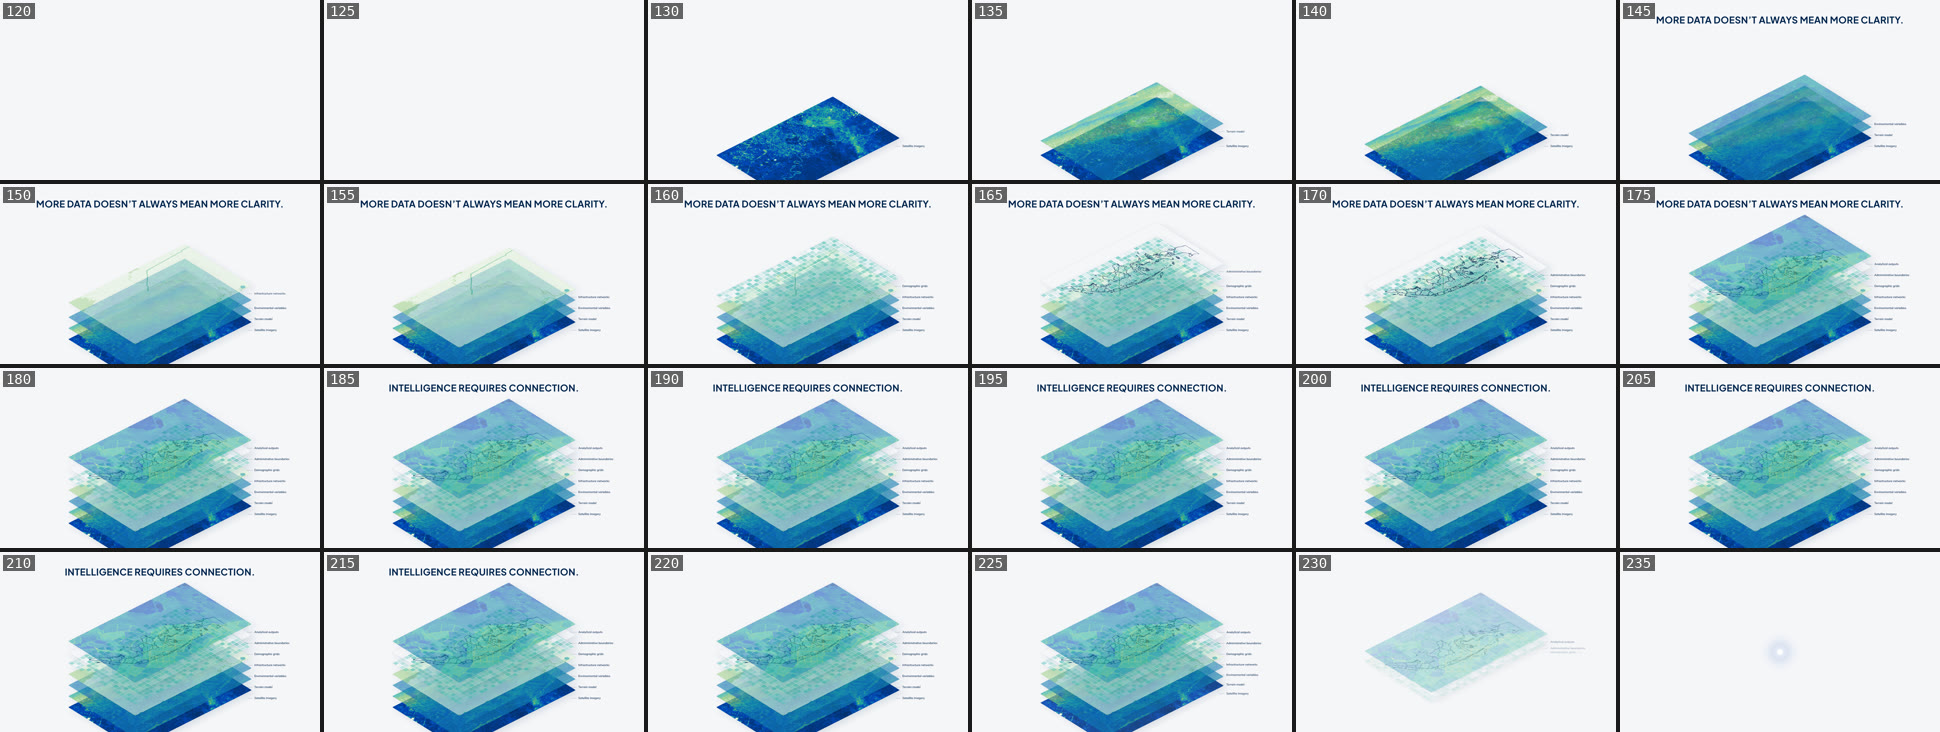
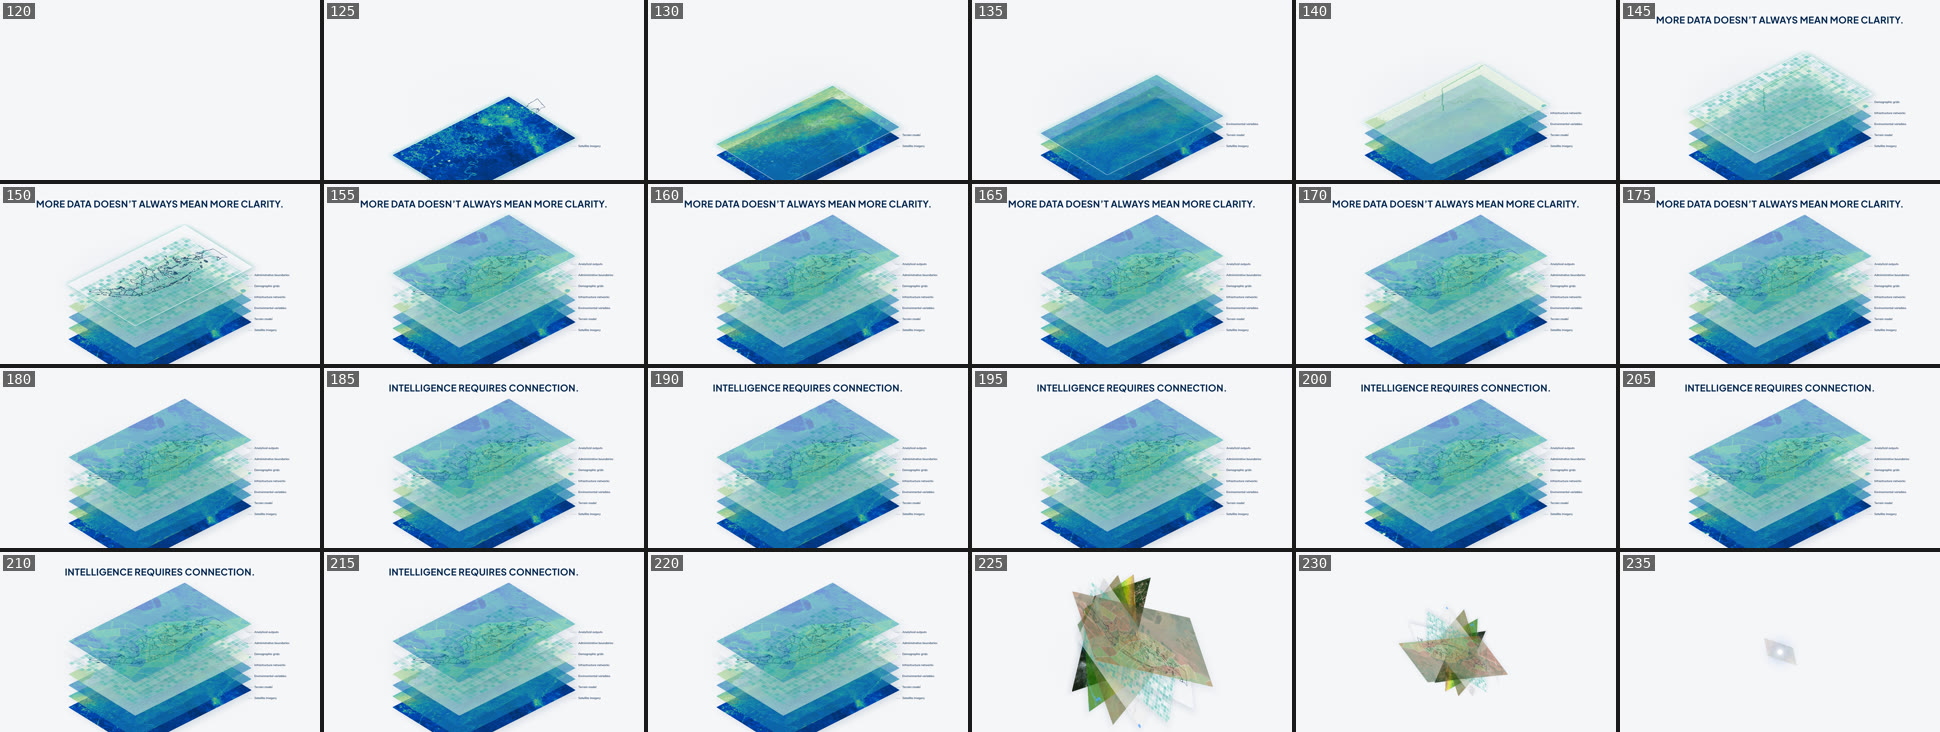
feat(galvis-film): full animation act 02
Indonesia tilts onto the stack plane; plates land on the beat with an edge
flash; their content drifts as the stack grows; moiré gratings; the plates
spiral into the node as clear copies (vortex-keyhole).

Claude-Session: https://claude.ai/code/session_0187RN5xC2Ne3Dptw6LeZ6Ei

diff --git a/projects/galvis-launch-film/compositions/02-complexity.html b/projects/galvis-launch-film/compositions/02-complexity.html
@@ -16,7 +16,18 @@
           transform: rotateX(56deg) rotateZ(-42deg); border-radius: 6px;
           box-shadow: 0 0 0 1px rgba(3, 39, 80, 0.18), 0 30px 60px rgba(3, 39, 80, 0.12);
         }
-        .act02-complexity-plate canvas { display: block; width: 100%; height: 100%; }
+        .act02-complexity-plate canvas { position: absolute; inset: 0; display: block; width: 100%; height: 100%; }
+        #act02-complexity-outline-pos { position: absolute; left: 960px; top: 880px; width: 0; height: 0; }
+        #act02-complexity-outline {
+          position: absolute; left: -470px; top: -300px; width: 940px; height: 600px; background: var(--navy);
+          -webkit-mask: url(assets/geo/idn-adm1-bold.svg) center / 100% 100% no-repeat; mask: url(assets/geo/idn-adm1-bold.svg) center / 100% 100% no-repeat;
+        }
+        .act02-complexity-moire {
+          position: absolute; left: 260px; top: 160px; width: 1400px; height: 900px;
+          background: repeating-linear-gradient(0deg, rgba(3, 39, 80, 0.55) 0 1px, transparent 1px 7px);
+          -webkit-mask-image: radial-gradient(ellipse 48% 44% at 50% 56%, #000 30%, transparent 100%);
+          mask-image: radial-gradient(ellipse 48% 44% at 50% 56%, #000 30%, transparent 100%);
+        }
         .act02-complexity-label {
           position: absolute; left: 520px; top: -14px; white-space: nowrap;
           font-family: var(--font-text); font-weight: 600; font-size: 17px; color: var(--navy);
@@ -30,7 +41,10 @@
         #act02-complexity-veil { position: absolute; inset: 0; background: var(--navy); }
       </style>
       <div id="act02-complexity-root" data-composition-id="act02-complexity" data-width="1920" data-height="1080">
+        <div id="act02-complexity-outline-pos"><div id="act02-complexity-outline"></div></div>
         <div id="act02-complexity-stack"></div>
+        <div id="act02-complexity-moire-a" class="act02-complexity-moire"></div>
+        <div id="act02-complexity-moire-b" class="act02-complexity-moire"></div>
         <div id="act02-complexity-line1" class="act02-complexity-line"></div>
         <div id="act02-complexity-line2" class="act02-complexity-line"></div>
         <div id="act02-complexity-veil"></div>
@@ -44,7 +58,16 @@
           $('line1').textContent = GV.COPY['complexity.line1'];
           $('line2').textContent = GV.COPY['complexity.line2'];
 
-          const image = (src, crop) => () => GV.ditheredCanvas(src, 940, 600, { palette: 'brand', cell: 3, crop });
+          // Image plates come as a dithered canvas plus a clear copy (resolve 1): the vortex spins and shrinks
+          // the clear copy, never the dithered one.
+          // Each image plate keeps 6 % of margin in its crop so its content can drift (redrawn, never moved).
+          const inset = ([x, y, w, h] = [0, 0, 1, 1]) => [x + w * 0.03, y + h * 0.03, w * 0.94, h * 0.94];
+          const image = (src, crop) => async () => {
+            const base = inset(crop);
+            const d = await GV.ditheredCanvas(src, 940, 600, { palette: 'brand', cell: 3, crop: base });
+            d.base = base;
+            return [d, await GV.ditheredCanvas(src, 940, 600, { palette: 'brand', cell: 3, crop: base, resolve: 1 })];
+          };
           const grid = () => {
             const c = document.createElement('canvas');
             c.width = 940; c.height = 600;
@@ -76,6 +99,7 @@
           ];
           const stack = $('stack');
           const slots = [];
+          const labels = [];
           for (const [i, [label, make, opacity]] of plates.entries()) {
             const slot = document.createElement('div');
             slot.className = `${id}-slot`;
@@ -84,23 +108,72 @@
             const plate = document.createElement('div');
             plate.className = `${id}-plate`;
             plate.style.opacity = opacity;
-            plate.append(await make());
+            const made = await make();
+            const [dithered, clear] = Array.isArray(made) ? made : [made, null];
+            plate.append(dithered);
+            if (clear) { clear.style.opacity = '0'; plate.append(clear); }
             const tag = document.createElement('div');
             tag.className = `${id}-label`;
             tag.textContent = label;
+            labels.push(tag);
             slot.append(plate, tag);
             stack.append(slot);
-            slots.push({ slot, top });
+            slots.push({ slot, top, plate, dithered: clear ? dithered : null, clear, drift: [Math.cos(i * 2.4), Math.sin(i * 2.4)] });
           }
 
-          // Plates drop in one by one from bar 7, beat 1 (slots move; the dithered canvases are never scaled).
-          slots.forEach(({ slot }, i) => {
-            gsap.set(slot, { y: -180, opacity: 0 });
-            tl.to(slot, { y: 0, opacity: 1, duration: 0.6, ease: 'power3.out' }, A(7, 1) + i * 0.75);
+          // Bar 7: Indonesia appears seen from above, then tilts onto the plane the plates will stack on.
+          gsap.set($('outline'), { opacity: 0, y: -360, rotationX: 0, rotationZ: 0 });
+          tl.to($('outline'), { opacity: 0.85, duration: 0.2 }, A(7));
+          tl.to($('outline'), { y: 0, rotationX: 56, rotationZ: -42, duration: 0.3, ease: 'power2.inOut' }, A(7) + 0.2);
+          tl.to($('outline'), { opacity: 0, duration: 0.2 }, A(7, 1) + 0.15);
+
+          // Every plate's state is a function of time: it drops in on its beat (expo out, so it lands on the
+          // frame), and from bar 12 spirals into the node (vortex-keyhole) as its clear copy.
+          const LAND = slots.map((_, i) => A(7, 1) + i * 0.5);
+          const VORTEX = A(12), NODE = [960, 600];
+          const expoOut = (k) => (k >= 1 ? 1 : 1 - Math.pow(2, -10 * k));
+          // A plate falls in over the 0.25 s before its beat (accelerating) and lands on it with an edge flash.
+          const placeSlots = (t) => slots.forEach(({ slot, top, plate, dithered, clear, drift }, i) => {
+            const fall = Math.min(1, Math.max(0, (t - (LAND[i] - 0.25)) / 0.25));
+            let state = { x: 0, y: -160 * (1 - fall * fall), scale: 1, rotation: 0, opacity: Math.min(1, fall * 1.6) };
+            const flash = t < LAND[i] ? 0 : Math.exp(-(t - LAND[i]) * 9);
+            plate.style.boxShadow = `0 0 0 ${(1 + 3 * flash).toFixed(2)}px rgba(255,255,255,${(0.18 + 0.82 * flash).toFixed(3)}), 0 0 ${(40 * flash).toFixed(1)}px rgba(31,175,161,${(0.7 * flash).toFixed(3)}), 0 30px 60px rgba(3, 39, 80, 0.12)`;
+            // The stack gets messier: each plate's content drifts its own way, faster as more plates land.
+            if (dithered && t >= LAND[i] && t < VORTEX) {
+              const landed = LAND.filter((l) => t >= l).length;
+              const amp = 0.012 + 0.003 * landed;
+              const u = Math.sin((t - LAND[i]) * (0.6 + 0.12 * landed));
+              const [bx, by, bw, bh] = dithered.base;
+              dithered.layer.set({ crop: [bx + drift[0] * amp * u * bw, by + drift[1] * amp * u * bh, bw, bh] });
+              dithered.layer.draw();
+            }
+            const k = Math.min(1, Math.max(0, (t - VORTEX - i * 0.05) / 1.3));
+            if (k > 0) {
+              const v = GV.vortexPoint([960, top], NODE, Math.pow(k, 1.3));
+              state = { x: v.x - 960, y: v.y - top, scale: v.scale, rotation: v.rotation, opacity: 1 - Math.max(0, (k - 0.75) / 0.25) };
+            }
+            const swap = clear ? Math.min(1, Math.max(0, (t - VORTEX) / 0.1)) : 0;
+            if (clear) { clear.style.opacity = String(swap); dithered.style.opacity = String(1 - swap); }
+            gsap.set(slot, state);
           });
 
+          // Moiré: two line gratings over the stack, turning against each other, denser as plates land.
+          const moire = (t) => {
+            const landed = LAND.filter((l) => t >= l).length;
+            const o = Math.min(0.32, landed * 0.045) * (t < VORTEX ? 1 : Math.max(0, 1 - (t - VORTEX) / 0.6));
+            gsap.set($('moire-a'), { rotation: 4 + t * 0.9, opacity: o });
+            gsap.set($('moire-b'), { rotation: -3 - t * 0.6, opacity: o });
+          };
+          // Labels leave as the vortex starts; only the plates are pulled in.
+          tl.to(labels, { opacity: 0, duration: 0.2 }, VORTEX);
+
+          const clock = { t: 0 };
+          const apply = (t) => { placeSlots(t); moire(t); };
+          tl.to(clock, { t: 12, duration: 12, ease: 'none', onUpdate: () => apply(clock.t) }, 0);
+          apply(0);
+
           const blurIn = { opacity: 0, y: 20, filter: 'blur(10px)' };
-          const sharp = { opacity: 1, y: 0, filter: 'blur(0px)', duration: 0.6, ease: 'power3.out' };
+          const sharp = { opacity: 1, y: 0, filter: 'blur(0px)', duration: 0.6, ease: 'expo.out' };
           const out = { opacity: 0, filter: 'blur(8px)', duration: 0.4 };
           gsap.set([$('line1'), $('line2')], blurIn);
           tl.to($('line1'), sharp, A(8));
@@ -108,11 +181,8 @@
           tl.to($('line2'), sharp, A(10));
           tl.to($('line2'), out, A(11, 3));
 
-          // Bar 12: everything is pulled into one node; on the silent last beat the frame dims around it
+          // Bar 12: everything has been pulled into one node; on the silent last beat the frame dims around it
           // (stop-down), so act 03's white flash on 24.0 is a hard cut.
-          slots.forEach(({ slot, top }, i) => {
-            tl.to(slot, { y: 600 - top, opacity: 0, duration: 0.9, ease: 'power3.in' }, A(12) + i * 0.04);
-          });
           gsap.set($('node'), { scale: 0, opacity: 0 });
           tl.to($('node'), { scale: 1, opacity: 1, duration: 0.4, ease: 'back.out(2)' }, A(12, 2));
           gsap.set($('veil'), { opacity: 0 });

diff --git a/projects/galvis-launch-film/shared/gv.js b/projects/galvis-launch-film/shared/gv.js
@@ -293,8 +293,16 @@ var GV = (() => {
       { t: 7, act: "act01-world", what: "vegetation lights up", box: [700, 540, 740, 540] },
       { t: 8, act: "act01-world", what: "line 2", box: [385, 130, 1150, 80] },
       { t: 10, act: "act01-world", what: "constellation", box: [480, 540, 720, 540] },
-      { t: 14, act: "act02-complexity", what: "line 1", box: [200, 60, 1520, 110] },
-      { t: 18, act: "act02-complexity", what: "line 2", box: [200, 60, 1520, 110] },
+      { t: 12.5, act: "act02-complexity", what: "plate 1 lands", box: [480, 690, 960, 380] },
+      { t: 13, act: "act02-complexity", what: "plate 2 lands", box: [480, 624, 960, 380] },
+      { t: 13.5, act: "act02-complexity", what: "plate 3 lands", box: [480, 558, 960, 380] },
+      { t: 14, act: "act02-complexity", what: "line 1", box: [300, 84, 1320, 75] },
+      { t: 14.5, act: "act02-complexity", what: "plate 5 lands", box: [480, 426, 960, 380] },
+      { t: 15, act: "act02-complexity", what: "plate 6 lands", box: [480, 360, 960, 380] },
+      { t: 15.5, act: "act02-complexity", what: "plate 7 lands", box: [480, 294, 960, 380] },
+      { t: 18, act: "act02-complexity", what: "line 2", box: [300, 84, 1320, 75] },
+      { t: 22, act: "act02-complexity", what: "vortex begins", box: [360, 300, 1200, 780] },
+      { t: 23.5, act: "act02-complexity", what: "stop-down veil", box: [0, 0, 1920, 1080] },
       { t: 24, act: "act03-reveal", what: "impact: white flash", box: [0, 0, 1920, 1080] },
       { t: 28, act: "act03-reveal", what: "GAL", box: [560, 586, 800, 130] },
       { t: 28.5, act: "act03-reveal", what: "VIS", box: [560, 586, 800, 130] },
